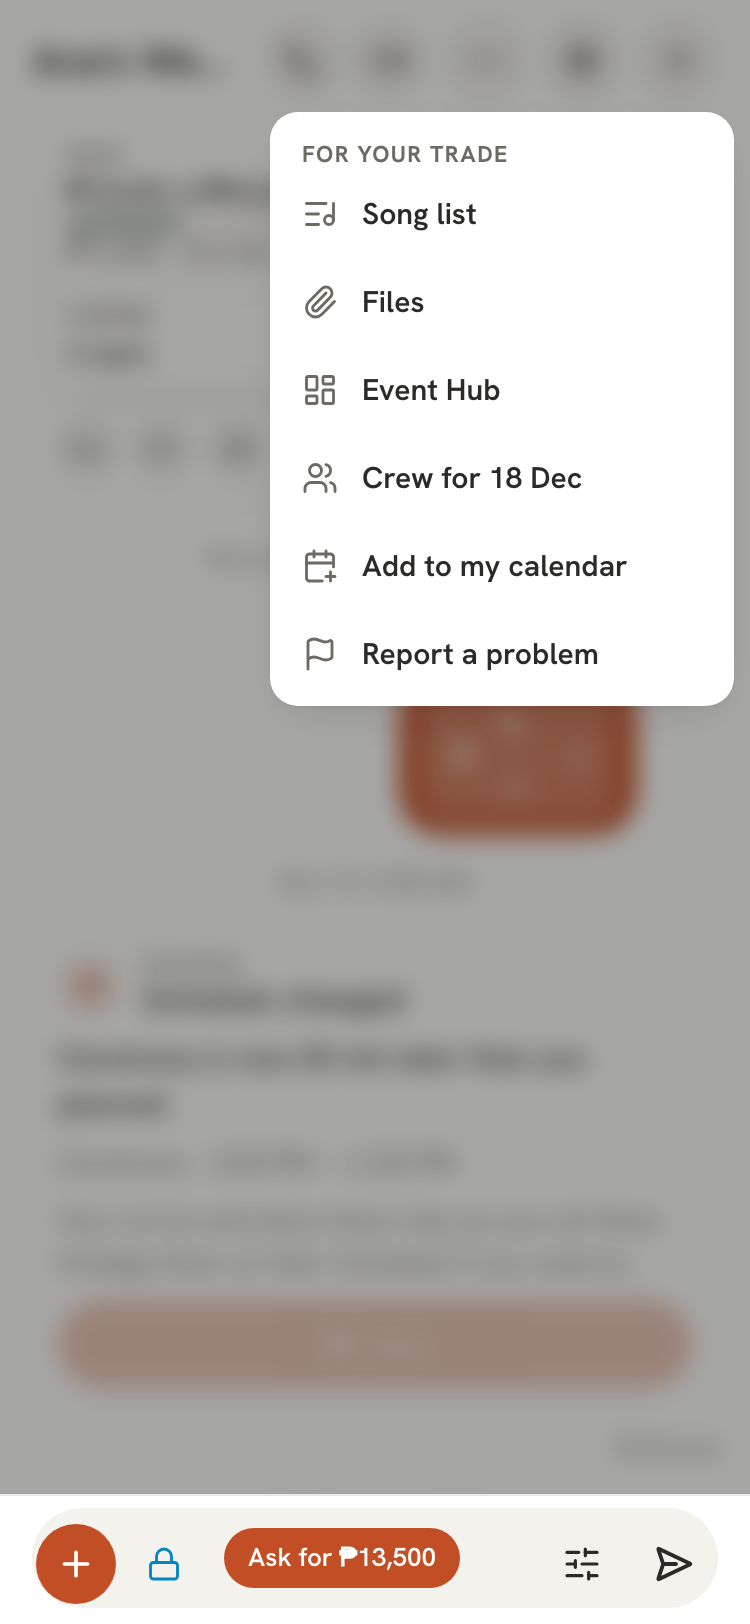
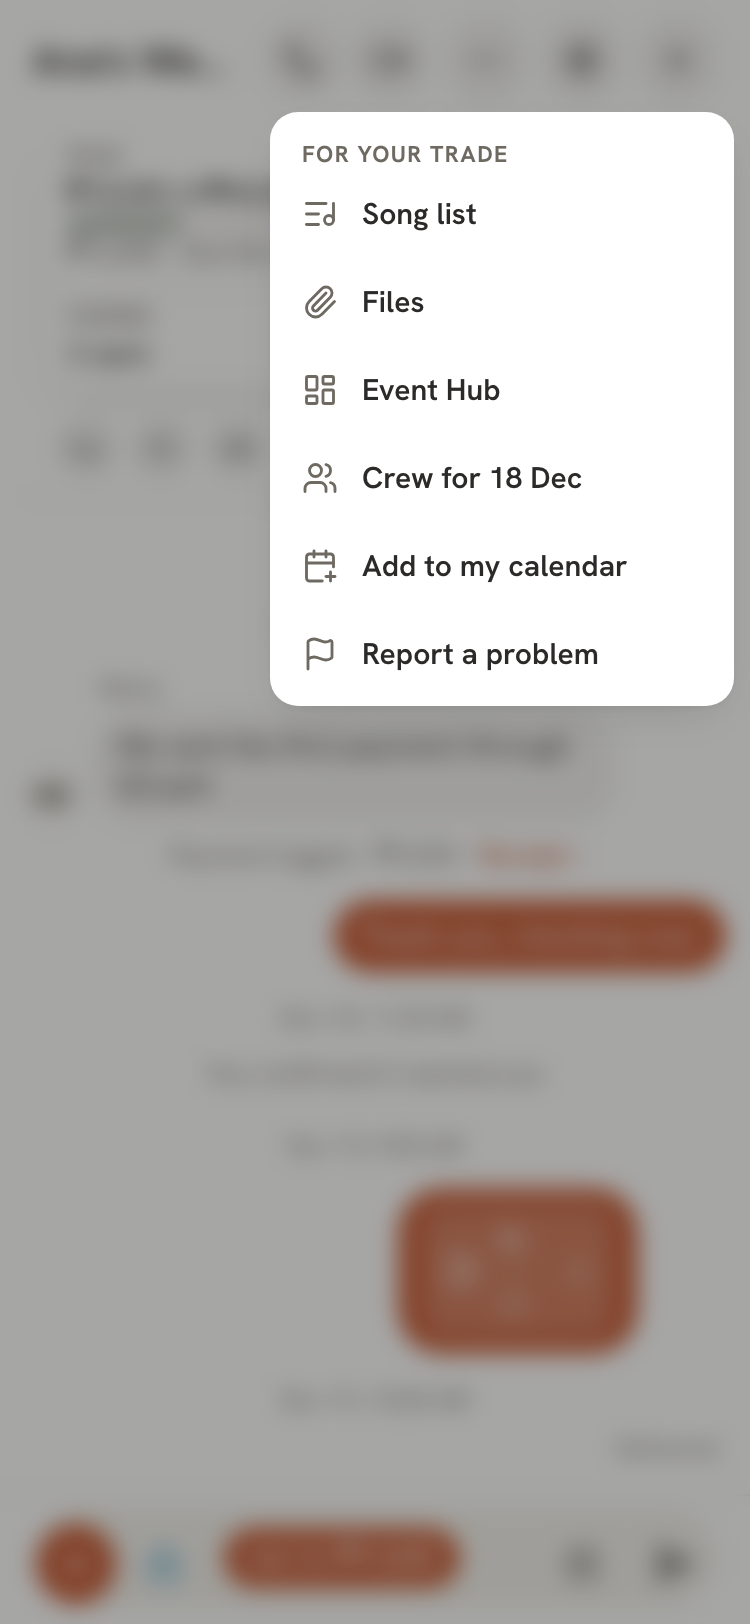
fix(chat): part G — the ⋯ scrim sits above the thumb row so the composer dims, as drawn; cite specs 5ca412c6
Scrim --sn-z-sticky → --sn-z-nav (above --sn-z-thumb), menu --sn-z-nav → --sn-z-pop. Guard rule 8 holds the scrim's
layer (sabotage-checked). Retook the menu-open pairs at 375 light and 1440 light.

diff --git a/apps/web/app/_components/picked/picked-shell.tsx b/apps/web/app/_components/picked/picked-shell.tsx
@@ -785,14 +785,15 @@ export function PickedShell<P extends string>({
                   "For your trade" label) — places to go, the row itself is the press. Esc, a tap outside or a row closes it. */}
               {moreOpen ? (
                 <>
-                  <OverlayBackdrop onClose={closeMore} tabIndex={-1} className="z-[var(--sn-z-sticky)]" data-picked-more-scrim="" />
+                  {/* The scrim sits above the thumb row (`--sn-z-thumb`), so the composer dims under it as drawn; the menu one up. */}
+                  <OverlayBackdrop onClose={closeMore} tabIndex={-1} className="z-[var(--sn-z-nav)]" data-picked-more-scrim="" />
                   <div
                     ref={moreMenuRef}
                     id={moreMenuId}
                     role="menu"
                     aria-label={`More for ${title}`}
                     onKeyDown={onMoreKey}
-                    className="absolute right-2 top-full z-[var(--sn-z-nav)] mt-1 w-[232px] origin-top-right sn-frame sn-frame-flush py-1 motion-safe:animate-[sn-peek-in_var(--sn-dur-elem)_var(--sn-ease)_backwards]"
+                    className="absolute right-2 top-full z-[var(--sn-z-pop)] mt-1 w-[232px] origin-top-right sn-frame sn-frame-flush py-1 motion-safe:animate-[sn-peek-in_var(--sn-dur-elem)_var(--sn-ease)_backwards]"
                     data-picked-more-menu=""
                   >
                     {moreMenu.map((m) => {

diff --git a/apps/web/app/vendor-dashboard/clients/[eventId]/the-more-menu-holds-places-to-go.test.ts b/apps/web/app/vendor-dashboard/clients/[eventId]/the-more-menu-holds-places-to-go.test.ts
@@ -155,8 +155,10 @@ test('6 · the host has Report a problem under ⋯ too — without becoming a on
   assert.match(SHELL, /\(chatHome \? chatHome\.more : more\)\.flatMap\(/);
   assert.match(SHELL, /if \('body' in row && !chatHome\) return \[\];/);
   // ⋯ is a menu under its own button, as drawn (`.menu.top`, 232 px, top right) — not a sheet from the bottom.
-  assert.match(SHELL, /\{moreOpen \? \([\s\S]{0,400}role="menu"[\s\S]{0,200}className="absolute right-2 top-full z-\[var\(--sn-z-nav\)\] mt-1 w-\[232px\]/, 'the ⋯ menu is no longer the drawn top-right menu');
+  assert.match(SHELL, /\{moreOpen \? \([\s\S]{0,600}role="menu"[\s\S]{0,200}className="absolute right-2 top-full z-\[var\(--sn-z-pop\)\] mt-1 w-\[232px\]/, 'the ⋯ menu is no longer the drawn top-right menu');
   assert.doesNotMatch(SHELL, /<Sheet open=\{moreOpen\}/, 'the ⋯ menu went back to a bottom sheet');
+  // The scrim covers the thumb row (the composer dims under it, as drawn): above `--sn-z-thumb`, the menu above it.
+  assert.match(SHELL, /<OverlayBackdrop onClose=\{closeMore\} tabIndex=\{-1\} className="z-\[var\(--sn-z-nav\)\]" data-picked-more-scrim="" \/>/, 'the composer floats over the ⋯ scrim again');
   // Esc peels one layer: the menu, not the whole client under it.
   assert.match(SHELL, /const escClose = useCallback\(\(\) => \(moreOpen \? closeMore\(\) : close\(\)\)/);
 });

diff --git a/changelog.d/claude-unichat-g-more-menu.md b/changelog.d/claude-unichat-g-more-menu.md
@@ -9,7 +9,7 @@ Owner 20 Nov 2026: *"build it now, I am happy with the design"* (drawing `build-
 - **Report a problem** moves into ⋯ (owner 20 Nov — supersedes 9 Nov "last row of (+)"; the (+) row is removed by the (+) builder's PR).
 - No duplicates: nothing the strip's four boxes open (Book & Budget · Schedule · Forms · Decisions) and nothing the (+) sends is a row here.
 
-**Parity pass (20 Nov, readying for review).** ⋯ is now the drawn menu: a 232 px panel under its own button at the top right (the drawing's `.menu.top`), plain rows (an 18 px icon in the second ink, the word), the small *For your trade* label, the shared dimmed scrim (`OverlayBackdrop`) behind it — not a sheet from the bottom. Arrow keys / Home / End step the rows; Esc closes the menu back onto ⋯ and goes no further (the client stays open). **Details** left the rows — the client's name in the head opens it, and the drawing has no second way in. **Crew** names the day (*Crew for 18 Dec*, `dayMonth` of the event date). The lab's `&one=booked` fills ⋯ with the real rows.
+**Parity pass (20 Nov, readying for review).** ⋯ is now the drawn menu: a 232 px panel under its own button at the top right (the drawing's `.menu.top`), plain rows (an 18 px icon in the second ink, the word), the small *For your trade* label, the shared dimmed scrim (`OverlayBackdrop`) behind it — one layer above the thumb row, so the composer dims under it as drawn — not a sheet from the bottom. Arrow keys / Home / End step the rows; Esc closes the menu back onto ⋯ and goes no further (the client stays open). **Details** left the rows — the client's name in the head opens it, and the drawing has no second way in. **Crew** names the day (*Crew for 18 Dec*, `dayMonth` of the event date). The lab's `&one=booked` fills ⋯ with the real rows.
 
 **On a computer a page opens beside the chat, never over it.** The chat is the page at every width; a page (from the strip, the name, ⋯ or an old `?tab=` door) opens in its own third column — 420 px on the right, with its own ← — and the chat narrows by exactly that. Opening another page replaces the one there. The tab row and the work column beside a side chat (18 Nov) are gone on this side; the host's picked supplier keeps them until its own build. In at 320 ms, out at 256 ms, on the settle curve; reduced motion moves nothing.
 
@@ -24,4 +24,4 @@ Owner 20 Nov 2026: *"build it now, I am happy with the design"* (drawing `build-
 Files: `app/_components/picked/picked-shell.tsx` (`PickedMoreRow`, `chatHome.pane`, the column) · `clients/[eventId]/_components/picked-client-more.ts` (new, pure) · `picked-client-shell.tsx` · `clients/[eventId]/page.tsx` · `_pages/context.ts` · `_pages/details.tsx` · `app/_components/chat/agreed-now.tsx` · `lib/agreed-facts.ts` (new).
 Guards: `clients/[eventId]/the-more-menu-holds-places-to-go.test.ts` (new, 5 rules, sabotage-checked) · `the-client-page-is-one-chat.test.ts` · `a-client-open-draws-the-thread-once.test.ts` · `the-thumb-row-floats-over-the-picked-client.test.ts` (re-anchored to the new rule).
 
-SPEC IMPACT: `DECISION_LOG.md` — 20 Nov rows needed for (1) Report a problem lives under ⋯ (supersedes 9 Nov "last row of (+)"), (2) on a computer a client's page opens in a third column beside the chat (supersedes 18 Nov "work column + tabs beside a side chat" on the supplier's side). Not edited from this builder's worktree — for the controller to apply with the rest of the Unichat rulings.
+SPEC IMPACT: `DECISION_LOG.md` — two 20 Nov rows, written by the controller in specs commit `5ca412c6`: (1) Report a problem lives under ⋯ (supersedes 9 Nov "last row of (+)"); (2) on a computer a client's page opens in a third column beside the chat (supersedes 18 Nov "work column + tabs beside a side chat" on the supplier's side).
